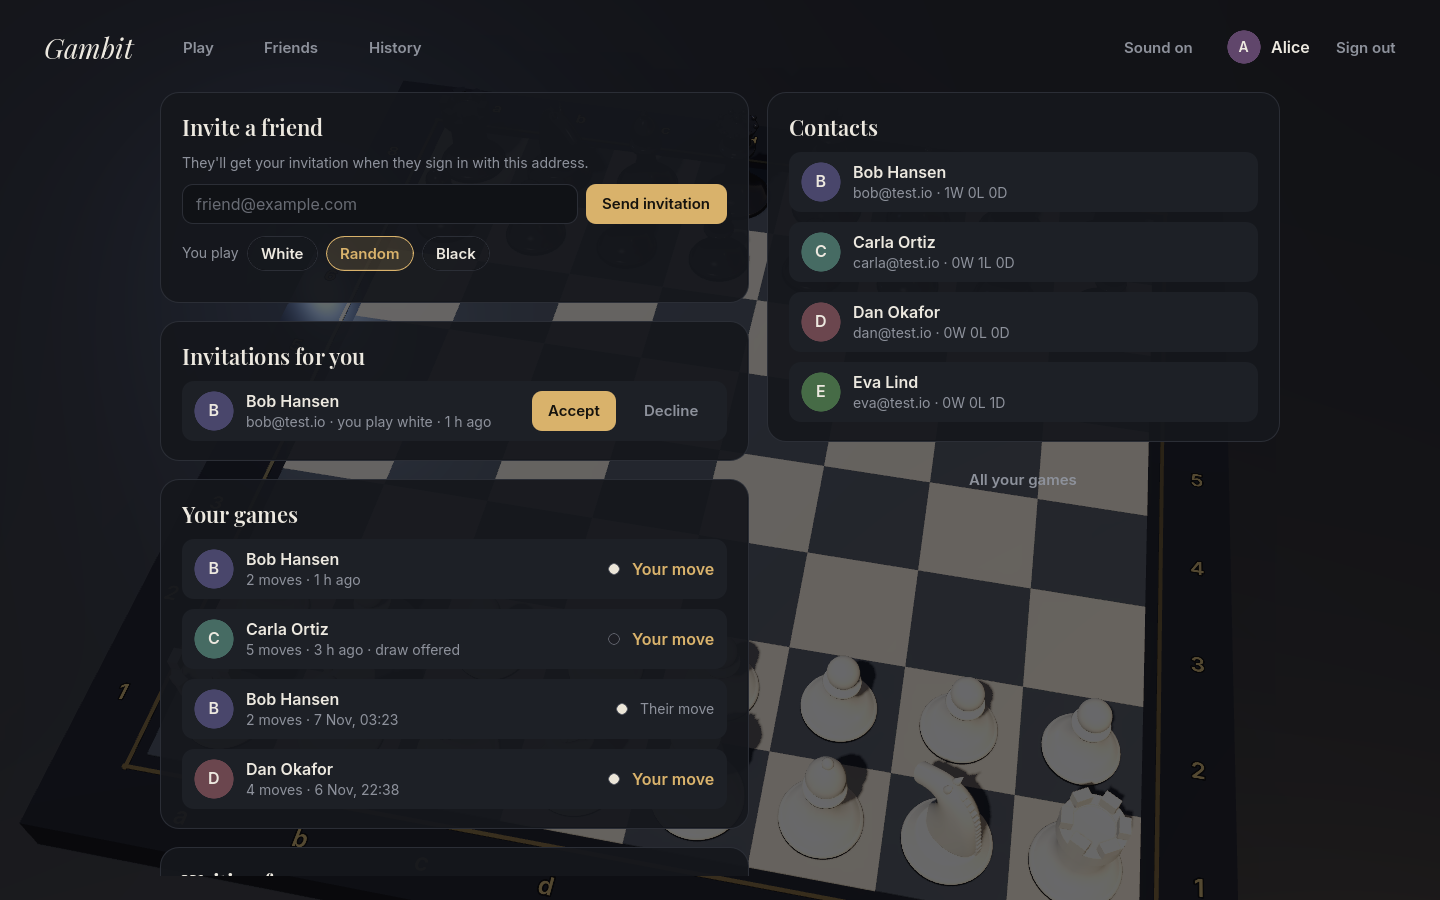
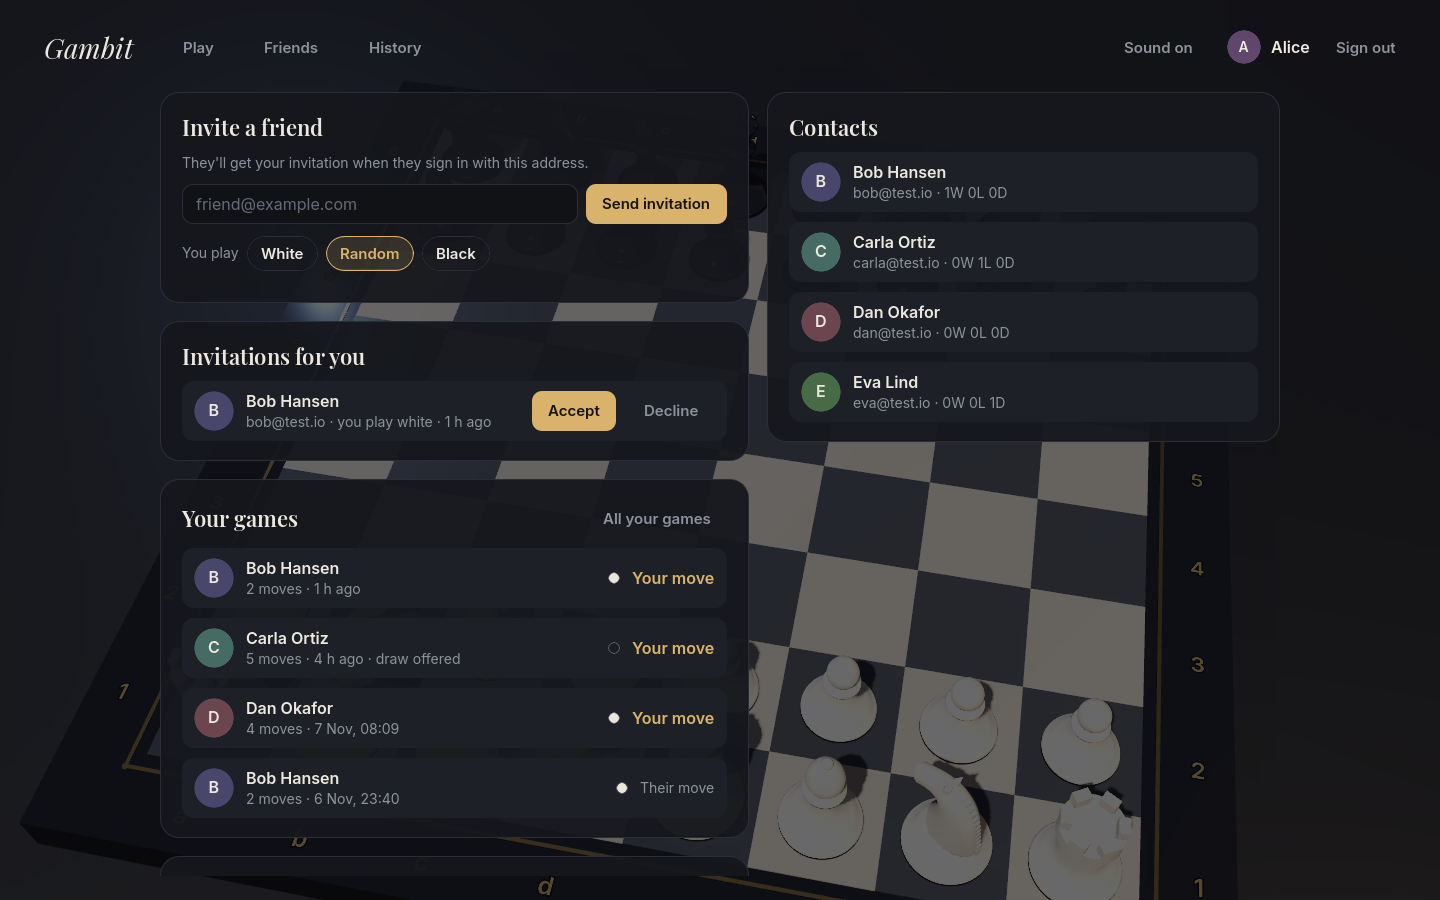
Gambit: "All your games" sits in the Your games card
In the lobby it was a loose Ghost button under the Contacts card, floating
over the table. It is now at the right of the "Your games" heading, inside
its card. UI-DESIGN says so; the lobby references (08, 09) are re-rendered.

Claude-Session: https://claude.ai/code/session_015ZiMTMHyvhwDGtU2PMN2sa

diff --git a/games/chess/docs/UI-DESIGN.md b/games/chess/docs/UI-DESIGN.md
@@ -179,13 +179,12 @@ Column 1120, two columns side by side (gap 18): left takes 1.15 shares of the wi
    - Row (gap 8): Muted **You play**; Chips **White** · **Random** · **Black** (Random on).
    - After sending, below: Muted, wrapping, `Invitation emailed to {email}. You can also send them this link:` (when an email went out) or `Invitation waiting for {email}. You can also send them this link:`; then a row of a read-only text field with the link and a Button **Copy** (toast "Link copied."). The *notify* sound plays and the field empties.
 2. **Invitations for you** (card, gap 10; hidden when there are none). Heading, then a row per invitation, newest first: avatar 40 · name (Strong) over `{email} · you play {white|black|a random colour} · {ago}` (Muted; both truncate with "…") · Primary **Accept** (opens the new game) · Ghost **Decline**.
-3. **Your games** (card, gap 10). Heading, then a clickable row per game in play, most recently active first: avatar 40 of the opponent · name over `{N moves} · {ago}` plus ` · draw offered` if the opponent has offered one · side dot 12 for your colour · **Your move** (Strong, gold) or **Their move** (Muted). When empty: Muted "No games in play. Invite someone!". A click opens the game.
+3. **Your games** (card, gap 10). A row (gap 8) of the Heading, a spacer and a Ghost **All your games** (history), then a clickable row per game in play, most recently active first: avatar 40 of the opponent · name over `{N moves} · {ago}` plus ` · draw offered` if the opponent has offered one · side dot 12 for your colour · **Your move** (Strong, gold) or **Their move** (Muted). When empty: Muted "No games in play. Invite someone!". A click opens the game.
 4. **Waiting for an answer** (card, gap 10; hidden when none). A row per invitation you sent: the email over `sent {ago}` · Ghost **Copy link** · Ghost **Cancel**.
 
 **Right column:**
 
 1. **Contacts** (card, gap 10). Heading, then a clickable row per contact (most recently played first): avatar 40 · name over `{email} · {W}W {L}L {D}D`. When empty: Muted, wrapping "Everyone you play is kept here, with your record and your games against them." A click opens the contact.
-2. Ghost **All your games** (history).
 
 If the page was opened from an invitation link (`?challenge=ID`) and that invitation is open and addressed to this account, it is simply there under **Invitations for you**. If it was already accepted, its game opens; otherwise a toast says `That invitation was {declined|cancelled}.` or `That invitation was sent to a different address than {email}.` (error).
 
